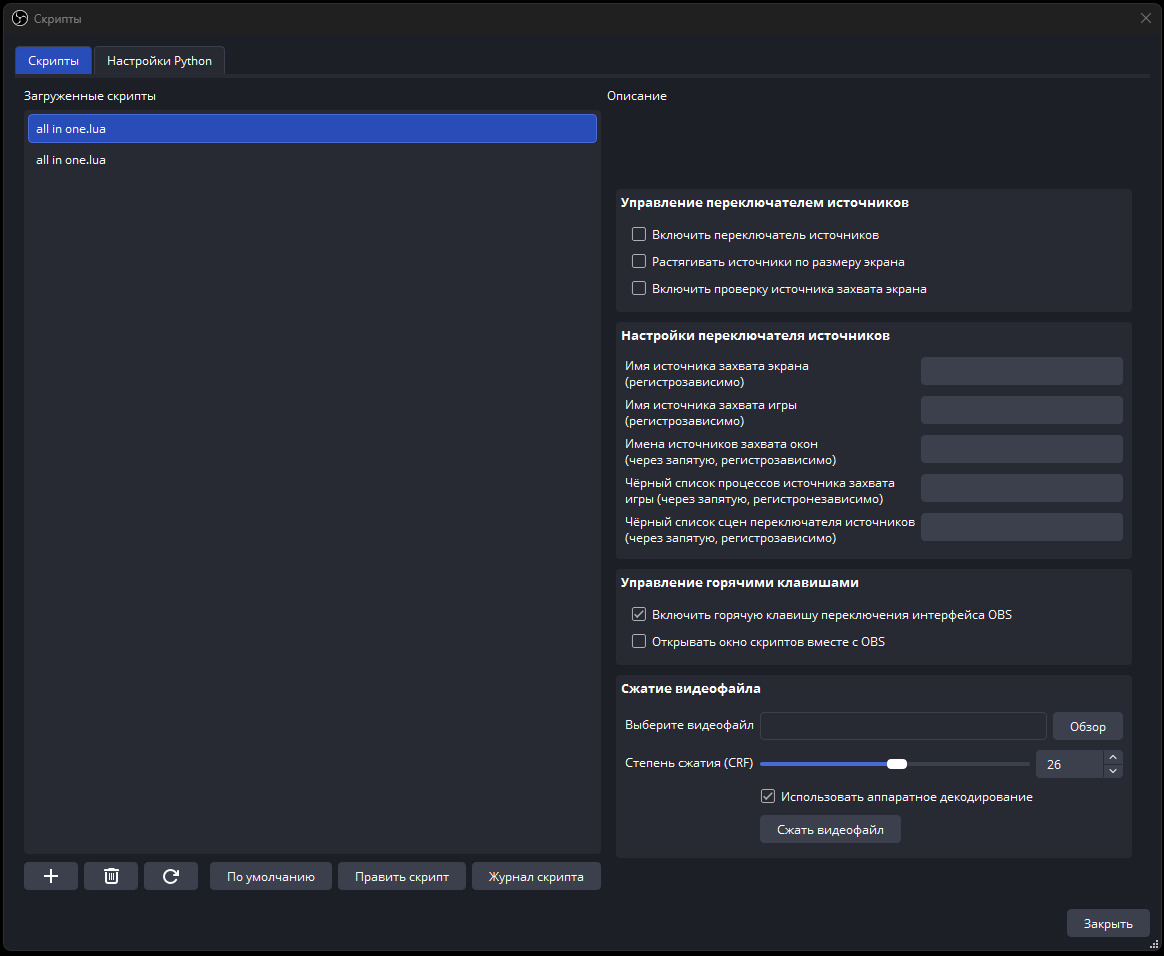
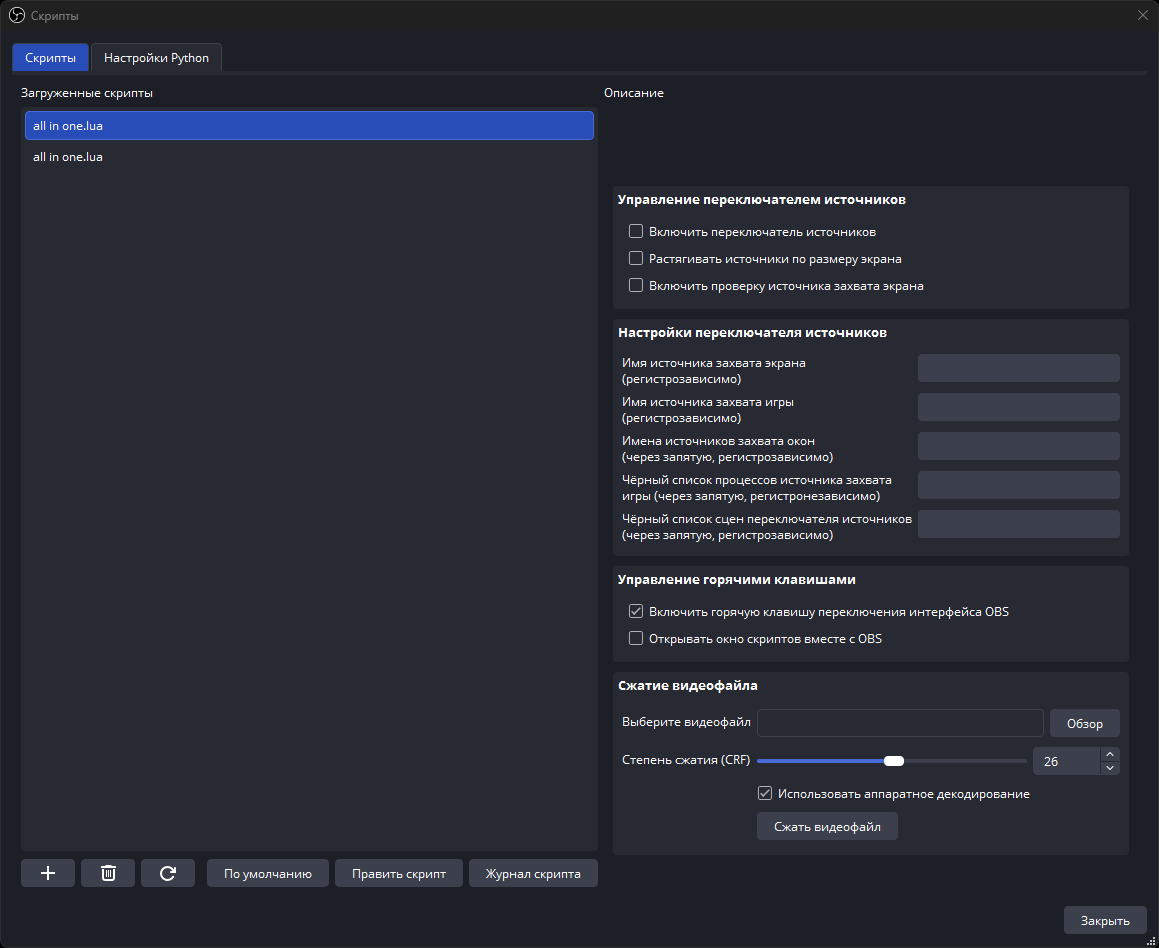
README.md and images

diff --git a/README.md b/README.md
@@ -1,6 +1,9 @@
 # 🎬 OBS-Script
 
-Многофункциональный Lua-скрипт для OBS. Имеет несколько основных фишек: **переключатель источников**, **переключение видимости интерфейса OBS по горячей клавише**, **сжатие видеофайлов через внешний FFmpeg**.
+Многофункциональный Lua-скрипт для OBS. Имеет несколько основных фишек: 
+- **переключатель источников** 
+- **переключение видимости интерфейса OBS по горячей клавише** 
+- **сжатие видеофайлов через внешний FFmpeg**
 
 ---
 
@@ -127,7 +130,7 @@
 1. Скачайте репозиторий: git clone https://github.com/Dulcet8721/OBS-Script
 2. Поместите папку со скриптом в удобное место.
 3. Скачайте FFmpeg, если нужна функция сжатия видеофайлов: [gyan.dev/ffmpeg/builds](https://www.gyan.dev/ffmpeg/builds) — файл `ffmpeg-release-essentials.7z`.
-4. Распакуйте архив и положите `ffmpeg.exe` в ту же папку, что и `all in one.lua`.
+4. Распакуйте архив и положите `ffmpeg.exe` в ту же папку, что и файл скрипта `all in one.lua`.
 5. Затем подключите скрипт в OBS:
    - Откройте OBS → **«Сервис»** → **«Скрипты»**.
    - Нажмите **«+»** и выберите файл **`all in one.lua`**.
